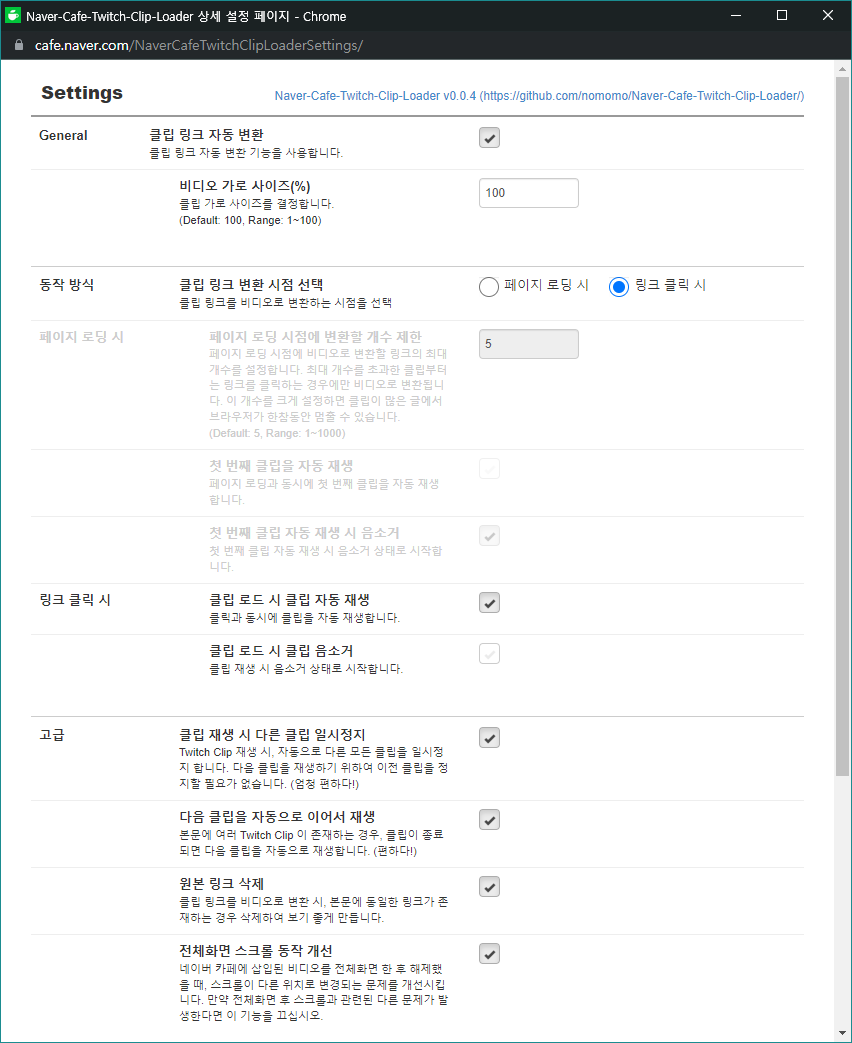
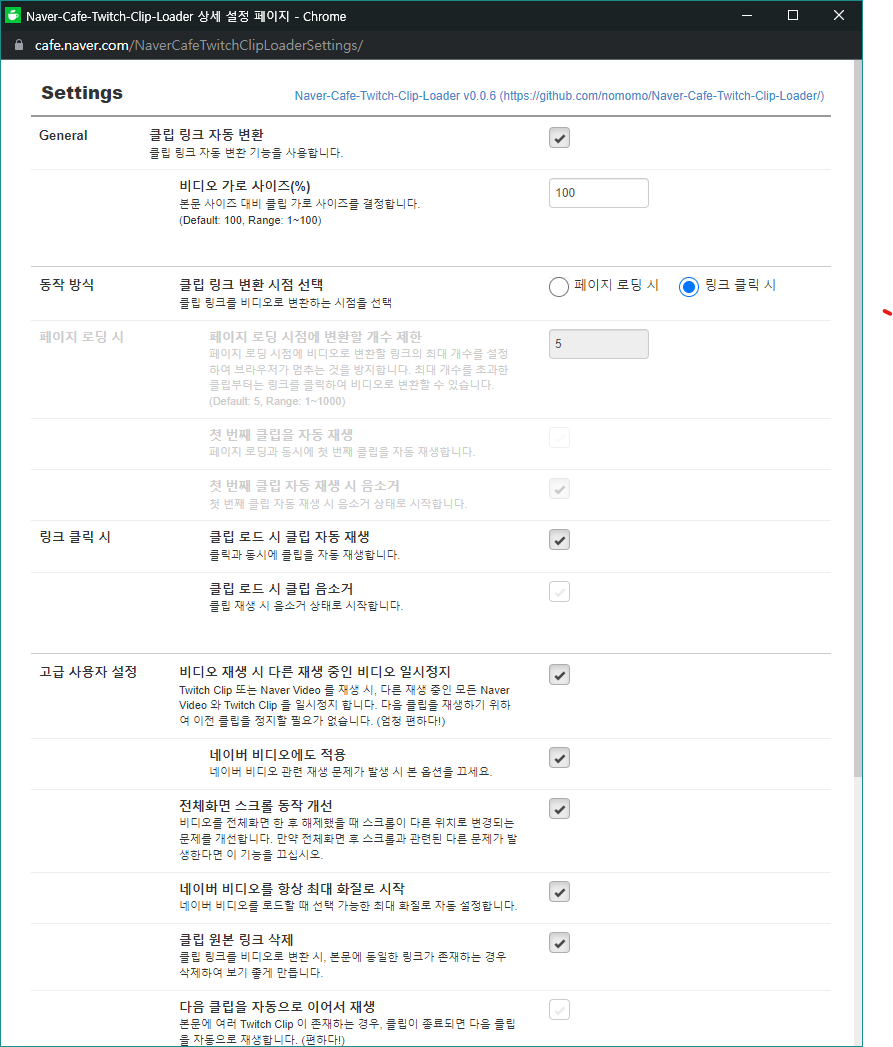
0.0.6

diff --git a/Naver-Cafe-Twitch-Clip-Loader.user.js b/Naver-Cafe-Twitch-Clip-Loader.user.js
@@ -1,7 +1,7 @@
 // ==UserScript==
 // @name        Naver-Cafe-Twitch-Clip-Loader
 // @namespace   Naver-Cafe-Twitch-Clip-Loader
-// @version     0.0.5
+// @version     0.0.6
 // @description Userscript that makes it easy to watch Twitch clips on Naver Cafe
 // @author      Nomo
 // @include     https://cafe.naver.com/*
@@ -37,6 +37,7 @@
 
     console.log("[NCTCL]   Naver-Cafe-Twitch-Clip-Loader", document.location.href);
     var DEBUG = await GM.getValue("DEBUG", false);
+    var isTwitch = /(^https:\/\/clips\.twitch\.tv\/)/.test(document.location.href);
 
     ////////////////////////////////////////////////////////////////////////////////////
     // libs
@@ -97,7 +98,7 @@
             valid:"number",
             min_value:1,
             max_value:100,
-            title:"비디오 가로 사이즈(%)", desc:"클립 가로 사이즈를 결정합니다.<br />(Default: 100, Range: 1~100)" },
+            title:"비디오 가로 사이즈(%)", desc:"본문 사이즈 대비 클립 가로 사이즈를 결정합니다.<br />(Default: 100, Range: 1~100)" },
         method : {
             category:"type",
             category_name:"동작 방식",
@@ -117,7 +118,7 @@
             valid:"number",
             min_value:1,
             max_value:100,
-            title:"페이지 로딩 시점에 변환할 개수 제한", desc:"페이지 로딩 시점에 비디오로 변환할 링크의 최대 개수를 설정합니다. 최대 개수를 초과한 클립부터는 링크를 클릭하는 경우에만 비디오로 변환됩니다. 이 개수를 크게 설정하면 클립이 많은 글에서 브라우저가 한참동안 멈출 수 있습니다.<br />(Default: 5, Range: 1~1000)" },
+            title:"페이지 로딩 시점에 변환할 개수 제한", desc:"페이지 로딩 시점에 비디오로 변환할 링크의 최대 개수를 설정하여 브라우저가 멈추는 것을 방지합니다. 최대 개수를 초과한 클립부터는 링크를 클릭하여 비디오로 변환할 수 있습니다.<br />(Default: 5, Range: 1~1000)" },
         autoPlayFirstClip: {
             category: "type",
             depth: 3,
@@ -157,28 +158,20 @@
         },
         autoPauseOtherClips: {
             category:"etc",
-            category_name: "고급",
+            category_name: "고급 사용자 설정",
             depth: 2,
             type: "checkbox",
             value: true,
-            title:"클립 재생 시 다른 클립 일시정지",
-            desc:"Twitch Clip 재생 시, 자동으로 다른 모든 클립을 일시정지 합니다. 다음 클립을 재생하기 위하여 이전 클립을 정지할 필요가 없습니다. (엄청 편하다!)"
+            title:"비디오 재생 시 다른 재생 중인 비디오 일시정지",
+            desc:"Twitch Clip 또는 Naver Video 를 재생 시, 다른 재생 중인 모든 Naver Video 와 Twitch Clip 을 일시정지 합니다. 다음 클립을 재생하기 위하여 이전 클립을 정지할 필요가 없습니다. (엄청 편하다!)"
         },
-        autoPlayNextClip: {
+        autoPauseOtherClipsForNaverVideo: {
             category:"etc",
-            depth: 2,
+            depth: 3,
             type: "checkbox",
             value: true,
-            title:"다음 클립을 자동으로 이어서 재생",
-            desc:"본문에 여러 Twitch Clip 이 존재하는 경우, 클립이 종료되면 다음 클립을 자동으로 재생합니다. (편하다!)"
-        },
-        removeOriginalLinks: {
-            category:"etc",
-            depth: 2,
-            type: "checkbox",
-            value: true,
-            title:"원본 링크 삭제",
-            desc:"클립 링크를 비디오로 변환 시, 본문에 동일한 링크가 존재하는 경우 삭제하여 보기 좋게 만듭니다."
+            title:"네이버 비디오에도 적용",
+            desc:"네이버 비디오 관련 재생 문제가 발생 시 본 옵션을 끄세요."
         },
         fixFullScreenScrollChange: {
             category:"etc",
@@ -186,9 +179,41 @@
             type: "checkbox",
             value: true,
             title:"전체화면 스크롤 동작 개선",
-            desc:"네이버 카페에 삽입된 비디오를 전체화면 한 후 해제했을 때, 스크롤이 다른 위치로 변경되는 문제를 개선시킵니다. 만약 전체화면 후 스크롤과 관련된 다른 문제가 발생한다면 이 기능을 끄십시오."
+            desc:"비디오를 전체화면 한 후 해제했을 때 스크롤이 다른 위치로 변경되는 문제를 개선합니다. 만약 전체화면 후 스크롤과 관련된 다른 문제가 발생한다면 이 기능을 끄십시오."
+        },
+        naverVideoAutoMaxQuality: {
+            category:"etc",
+            depth: 2,
+            type: "checkbox",
+            value: true,
+            title:"네이버 비디오를 항상 최대 화질로 시작",
+            desc:"네이버 비디오를 로드할 때 선택 가능한 최대 화질로 자동 설정합니다."
+        },
+        removeOriginalLinks: {
+            category:"etc",
+            depth: 2,
+            type: "checkbox",
+            value: true,
+            title:"클립 원본 링크 삭제",
+            desc:"클립 링크를 비디오로 변환 시, 본문에 동일한 링크가 존재하는 경우 삭제하여 보기 좋게 만듭니다."
+        },
+        autoPlayNextClip: {
+            category:"etc",
+            depth: 2,
+            type: "checkbox",
+            value: false,
+            title:"다음 클립을 자동으로 이어서 재생",
+            desc:"본문에 여러 Twitch Clip 이 존재하는 경우, 클립이 종료되면 다음 클립을 자동으로 재생합니다. (편하다!)"
         }
     };
+    GM_addStyle(`
+    body #GM_setting {min-width:800px;}
+    body::-webkit-scrollbar { width: 8px; height: 8px; background: #eee; }
+    body::-webkit-scrollbar-thumb { background: #ccc; }
+    body #GM_setting .GM_setting_depth1 .GM_setting_list_head{width:370px;}
+    body #GM_setting .GM_setting_depth2 .GM_setting_list_head{width:340px;}
+    body #GM_setting .GM_setting_depth3 .GM_setting_list_head{width:310px;}
+    `);
     window.GM_setting = GM_setting;
     //await GM_setting.init("GM_SETTINGS", _settings);
     await GM_setting.init("GM_SETTINGS", {"DEBUG":DEBUG, "SETTINGS":_settings, "CONSOLE_MSG":NOMO_DEBUG, "MULTILANG":false});
@@ -196,7 +221,7 @@
         GM.registerMenuCommand("상세 설정 열기", function(){
             var ww = $(window).width(),
                 wh = $(window).height();
-            var wn = (ww > 850 ? 850 : ww/5*4);
+            var wn = (ww > 930 ? 930 : ww/5*4);
             var left  = (ww/2)-(wn/2),
                 top = (wh/2)-(wh/5*4/2);
             window.open("https://cafe.naver.com/NaverCafeTwitchClipLoaderSettings/","winname",
@@ -232,7 +257,7 @@
         return;
     }
     // Embed Twitch Clip
-    else if(/(^https:\/\/clips\.twitch\.tv\/)/.test(document.location.href) && GM_SETTINGS.use && (GM_SETTINGS.autoPauseOtherClips || GM_SETTINGS.autoPlayNextClip)){
+    else if(isTwitch && GM_SETTINGS.use && (GM_SETTINGS.autoPauseOtherClips || GM_SETTINGS.autoPlayNextClip)){
         var video = undefined;
         var match = document.location.href.match(/^https?:\/\/clips\.twitch\.tv\/embed\?clip=([a-zA-Z0-9-_]+)/);
         var clipId = "";
@@ -282,10 +307,10 @@
         return;
     }
 
-    window.addEventListener("message", function(e){
+    var autoPauseVideo = function(e){
         if(!GM_SETTINGS.autoPauseOtherClips && !GM_SETTINGS.autoPlayNextClip) return;
         if(e.origin === "https://clips.twitch.tv" && e.data.type === "NCTCL"){
-            NOMO_DEBUG("message from clips.twitch.tv", e.data);
+            NOMO_DEBUG("autoPauseVideo", e.data);
             if(e.data.clipId === undefined || e.data.clipId === "") return;
 
             var $iframes = $(document).find("div.NCTCL-iframe-container iframe");
@@ -314,7 +339,38 @@
                         }
                 }
             });
+
+            // for naver video
+            if(!GM_SETTINGS.autoPauseOtherClips || !GM_SETTINGS.autoPauseOtherClipsForNaverVideo || isTwitch) return true;
+            if(e.data.event == "play"){
+                var $videos = $(document).find("video");
+                $videos.each(function(i, v){
+                    var $nvideo = $(v);
+                    var $id = $nvideo.attr("id");
+                    if(e.data.clipId == $id) return;
+                    if(!$nvideo.hasClass("_FISRTPLAYED") || $nvideo[0].paused) return;
+
+                    var $sevideo = $nvideo.closest(".se-video");
+                    if ($sevideo.length == 0) {
+                        NOMO_DEBUG("no se-video");
+                        return;
+                    }
+
+                    var $playbtn = $sevideo.find(".u_rmc_play_area button");
+                    if($playbtn.length == 0) {
+                        NOMO_DEBUG("no playbtn");
+                        return;
+                    }
+
+                    $playbtn.trigger("click");
+                    NOMO_DEBUG("NAVER VIDEO PAUSE");
+                });
+            }
         }
+    }
+
+    window.addEventListener("message", function(e){
+        autoPauseVideo(e);
     });
 
     ////////////////////////////////////////////////////////////////////////////////////
@@ -524,5 +580,78 @@
     catch(e){
         console.error("Error from fixFullScreenScrollChange", e);
     }
+
+    $(document).arrive("video", { onlyOnce: true, existing: true }, function (elem) {
+        try{
+            if(isTwitch) return;
+            if($(elem).hasClass("_FISRTPLAYED")) return;
+
+            $(elem).on("play", function (e) {
+                NOMO_DEBUG("Naver video played", e);
+                var $elem = $(e.target);
+
+                // autoPauseOtherClipsForNaverVideo
+                if(GM_SETTINGS.autoPauseOtherClips && GM_SETTINGS.autoPauseOtherClipsForNaverVideo){
+                    autoPauseVideo({
+                        "origin":"https://clips.twitch.tv",
+                        "data":{"type":"NCTCL", "event":"play", "clipId":$elem.attr("id")},
+                    });
+                }
+
+                if($elem.hasClass("_FISRTPLAYED")) return;
+                $elem.addClass("_FISRTPLAYED");
+            });
+
+            $(elem).on("pause", function (e) {
+                NOMO_DEBUG("Naver video paused", e);
+            });
+        }
+        catch(e){
+            console.error("Error from video arrive", e);
+        }
+    });
+
+    if(GM_SETTINGS.naverVideoAutoMaxQuality){
+        $(document).arrive(".u_rmc_definition_ly", { existing: true }, function (elem) {
+            setTimeout(function(){
+                try{
+                    NOMO_DEBUG("TRY TO SET BEST QUALITY");
+                    var $elem = $(elem);
+                    var $u_rmcplayer = $elem.closest(".u_rmcplayer");
+                    if($u_rmcplayer.length === 0) {
+                        NOMO_DEBUG("no $u_rmcplayer");
+                        return;
+                    }
+
+                    if($u_rmcplayer.hasClass("_QSET")) {
+                        NOMO_DEBUG("ALREADY QSET");
+                        return;
+                    }
+
+                    var $qli = $(elem).find("li");
+                    if($qli.length > 2){
+                        var $last = $qli.last();
+                        if($last.hasClass("u_rmc_on")) {
+                            NOMO_DEBUG("u_rmc_on - ALREADY QSET");
+                            return;
+                        }
+
+                        NOMO_DEBUG("BEST QUALITY SET", $last.text());
+                        $last.find("button").trigger("click");
+
+                        $u_rmcplayer.addClass("_QSET");
+                    }
+                    else{
+                        NOMO_DEBUG("no li elements for QSET");
+                    }
+
+                }
+                catch(e){
+                    console.error("Error from naverVideoAutoMaxQuality arrive", e);
+                }
+            }, 1);
+        });
+    }
+
 
 })();

diff --git a/README.md b/README.md
@@ -19,7 +19,7 @@
 
 ## Install
 
-Naver-Cafe-Twitch-Clip-Loader 스크립트의 설치 방법을 설명합니다.
+Naver-Cafe-Twitch-Clip-Loader 의 설치 방법을 설명합니다.
 
 ### STEP 1. ScriptManager
 
@@ -42,12 +42,24 @@ Naver-Cafe-Twitch-Clip-Loader 스크립트의 설치 방법을 설명합니다.
 > 주의: 본 스크립트를 설치 및 사용하며 브라우저 과부하로 인한 응답 없음/뻗음으로 인한 데이터 손실이나 기타 발생하는 다른 문제에 대하여 개발자는 책임지지 않음(보고된 문제는 없음)  
 > Naver Cafe 접속에 문제가 생기거나 클립 재생이 안 되는 문제 등이 발생하는 경우, Tampermonkey 의 관리 메뉴에서 이 스크립트를 끄거나 삭제해주세요.
 
+<br /><br />
+
+- 이것으로 설치는 끝입니다. 편하게 사용하세요~
+
 ## Bug report
 
 - 버그 리포트 & 건의사항은 아래의 링크로 보내주세요.
 - nomotg@gmail.com
 
 ## Change log
+
+### 0.0.6 (Mar. 18, 2022)
+
+- 기능 추가
+  - 네이버 비디오를 항상 최대 화질로 시작: 네이버 비디오를 로드할 때 선택 가능한 최대 화질을 자동으로 선택해주는 설정을 추가했어요. (편하다!)
+  - 비디오 재생 시 다른 재생 중인 비디오 일시정지: 이제 Twitch Clip 뿐만이 아니라 Naver Video 를 재생 시에도 다른 재생 중인 모든 Naver Video 와 Twitch Clip 을 일시정지 해줍니다. 다음 동영상을 재생하기 위하여 이전 동영상을 정지할 필요가 없습니다. (엄청 엄청 편하다!)
+    - 네이버 비디오 관련 재생 문제가 발생 시 "네이버 비디오에도 적용" 옵션을 끄세요.
+- "다음 클립을 자동으로 이어서 재생" 옵션이 설치 직후 비활성화 되도록 기본 옵션을 바꾸었어요.
 
 ### 0.0.5 (Apr. 10, 2022)
 
